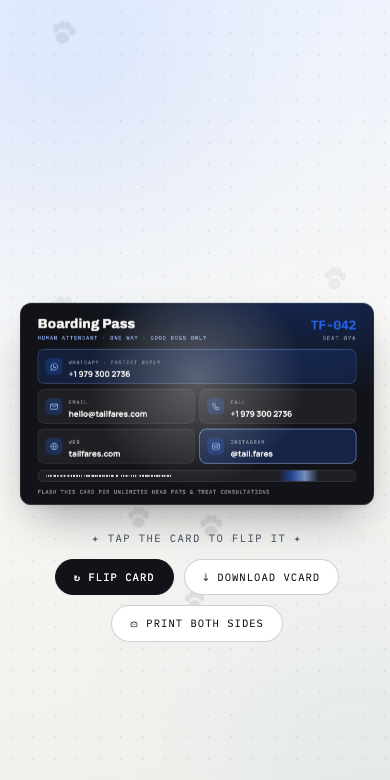
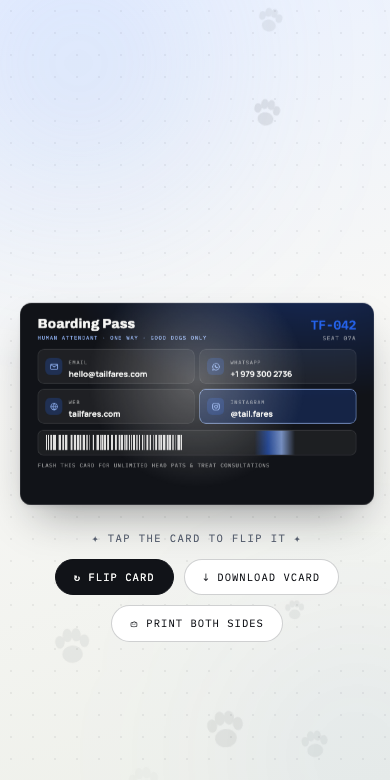
Card back: drop call row, WhatsApp takes its place in the 2x2 grid

Changed region(s): [[0.0923, 0.4615, 0.9231, 0.6462], [0.0923, 0.4615, 0.4, 0.4923]]

diff --git a/public/card.html b/public/card.html
@@ -303,23 +303,17 @@
           </header>
 
           <div class="b-grid">
-            <a class="crow wide" id="row-wa" href="https://wa.me/19793002736" target="_blank" rel="noopener">
-              <span class="ic" aria-hidden="true">
-                <svg viewBox="0 0 24 24" fill="none" stroke="currentColor" stroke-width="1.9" stroke-linecap="round" stroke-linejoin="round"><path d="M12 3a9 9 0 0 0-7.8 13.5L3 21l4.7-1.2A9 9 0 1 0 12 3Z"/><path d="M8.7 9.2c.3 2.6 3.5 5.8 6.1 6.1l1.5-1.5-2.2-1.2-1 .7a6.5 6.5 0 0 1-2.4-2.4l.7-1-1.2-2.2Z"/></svg>
-              </span>
-              <span><span class="c-label">WHATSAPP · FASTEST REPLY</span><span class="c-value" data-field="phoneDisplay">+1 979 300 2736</span></span>
-            </a>
             <a class="crow" id="row-email" href="mailto:hello@tailfares.com">
               <span class="ic" aria-hidden="true">
                 <svg viewBox="0 0 24 24" fill="none" stroke="currentColor" stroke-width="1.9" stroke-linecap="round" stroke-linejoin="round"><rect x="2.5" y="5" width="19" height="14" rx="2.5"/><path d="m3.5 6.5 8.5 6 8.5-6"/></svg>
               </span>
               <span><span class="c-label">EMAIL</span><span class="c-value" data-field="email">hello@tailfares.com</span></span>
             </a>
-            <a class="crow" id="row-phone" href="tel:+19793002736">
+            <a class="crow" id="row-wa" href="https://wa.me/19793002736" target="_blank" rel="noopener">
               <span class="ic" aria-hidden="true">
-                <svg viewBox="0 0 24 24" fill="none" stroke="currentColor" stroke-width="1.9" stroke-linecap="round" stroke-linejoin="round"><path d="M5 4h4l2 5-2.5 1.5a11 11 0 0 0 5 5L15 13l5 2v4a2 2 0 0 1-2 2A16 16 0 0 1 3 6a2 2 0 0 1 2-2Z"/></svg>
+                <svg viewBox="0 0 24 24" fill="none" stroke="currentColor" stroke-width="1.9" stroke-linecap="round" stroke-linejoin="round"><path d="M12 3a9 9 0 0 0-7.8 13.5L3 21l4.7-1.2A9 9 0 1 0 12 3Z"/><path d="M8.7 9.2c.3 2.6 3.5 5.8 6.1 6.1l1.5-1.5-2.2-1.2-1 .7a6.5 6.5 0 0 1-2.4-2.4l.7-1-1.2-2.2Z"/></svg>
               </span>
-              <span><span class="c-label">CALL</span><span class="c-value">+1 979 300 2736</span></span>
+              <span><span class="c-label">WHATSAPP</span><span class="c-value" data-field="phoneDisplay">+1 979 300 2736</span></span>
             </a>
             <a class="crow" id="row-web" href="https://tailfares.com" target="_blank" rel="noopener">
               <span class="ic" aria-hidden="true">
@@ -376,7 +370,6 @@
     if (v) el.textContent = v;
   });
   document.getElementById('row-email').href = 'mailto:' + DETAILS.email;
-  document.getElementById('row-phone').href = 'tel:' + DETAILS.phone;
   document.getElementById('row-wa').href = 'https://wa.me/' + DETAILS.phone.replace(/\D/g, '');
   document.getElementById('row-web').href = DETAILS.url;
   document.title = DETAILS.name + ' · ' + DETAILS.org + ' — Business Card';
